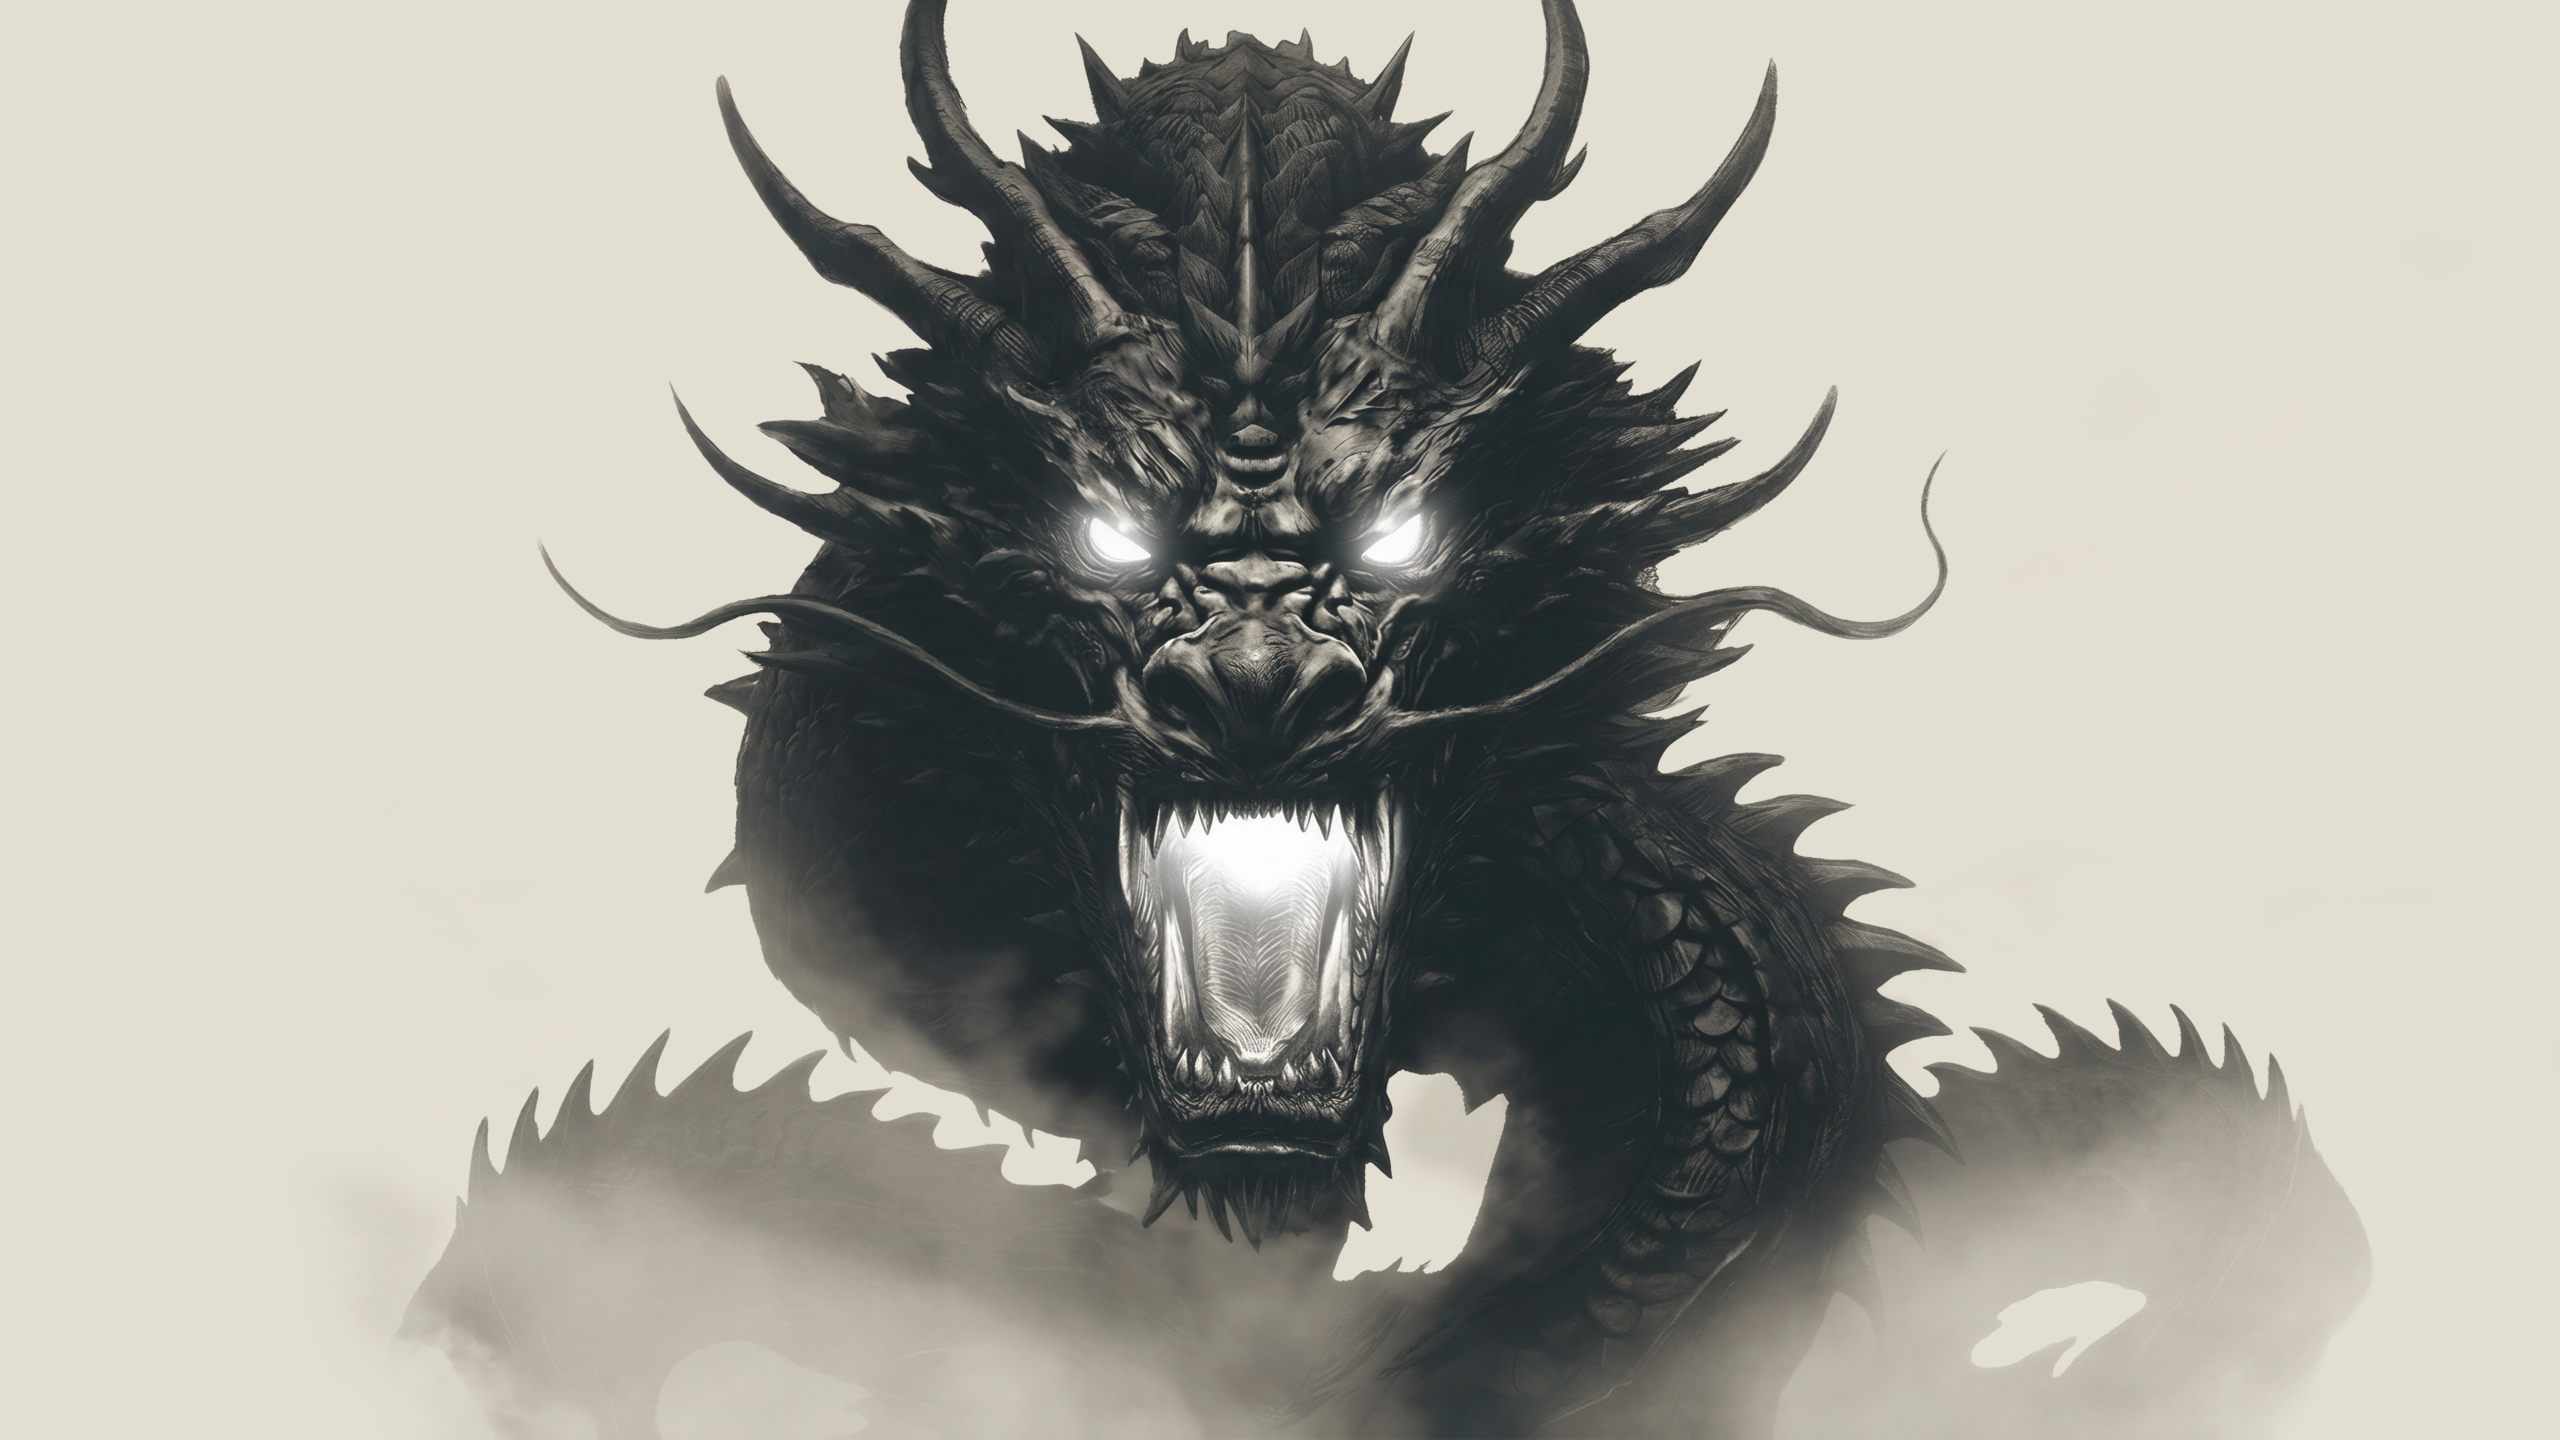
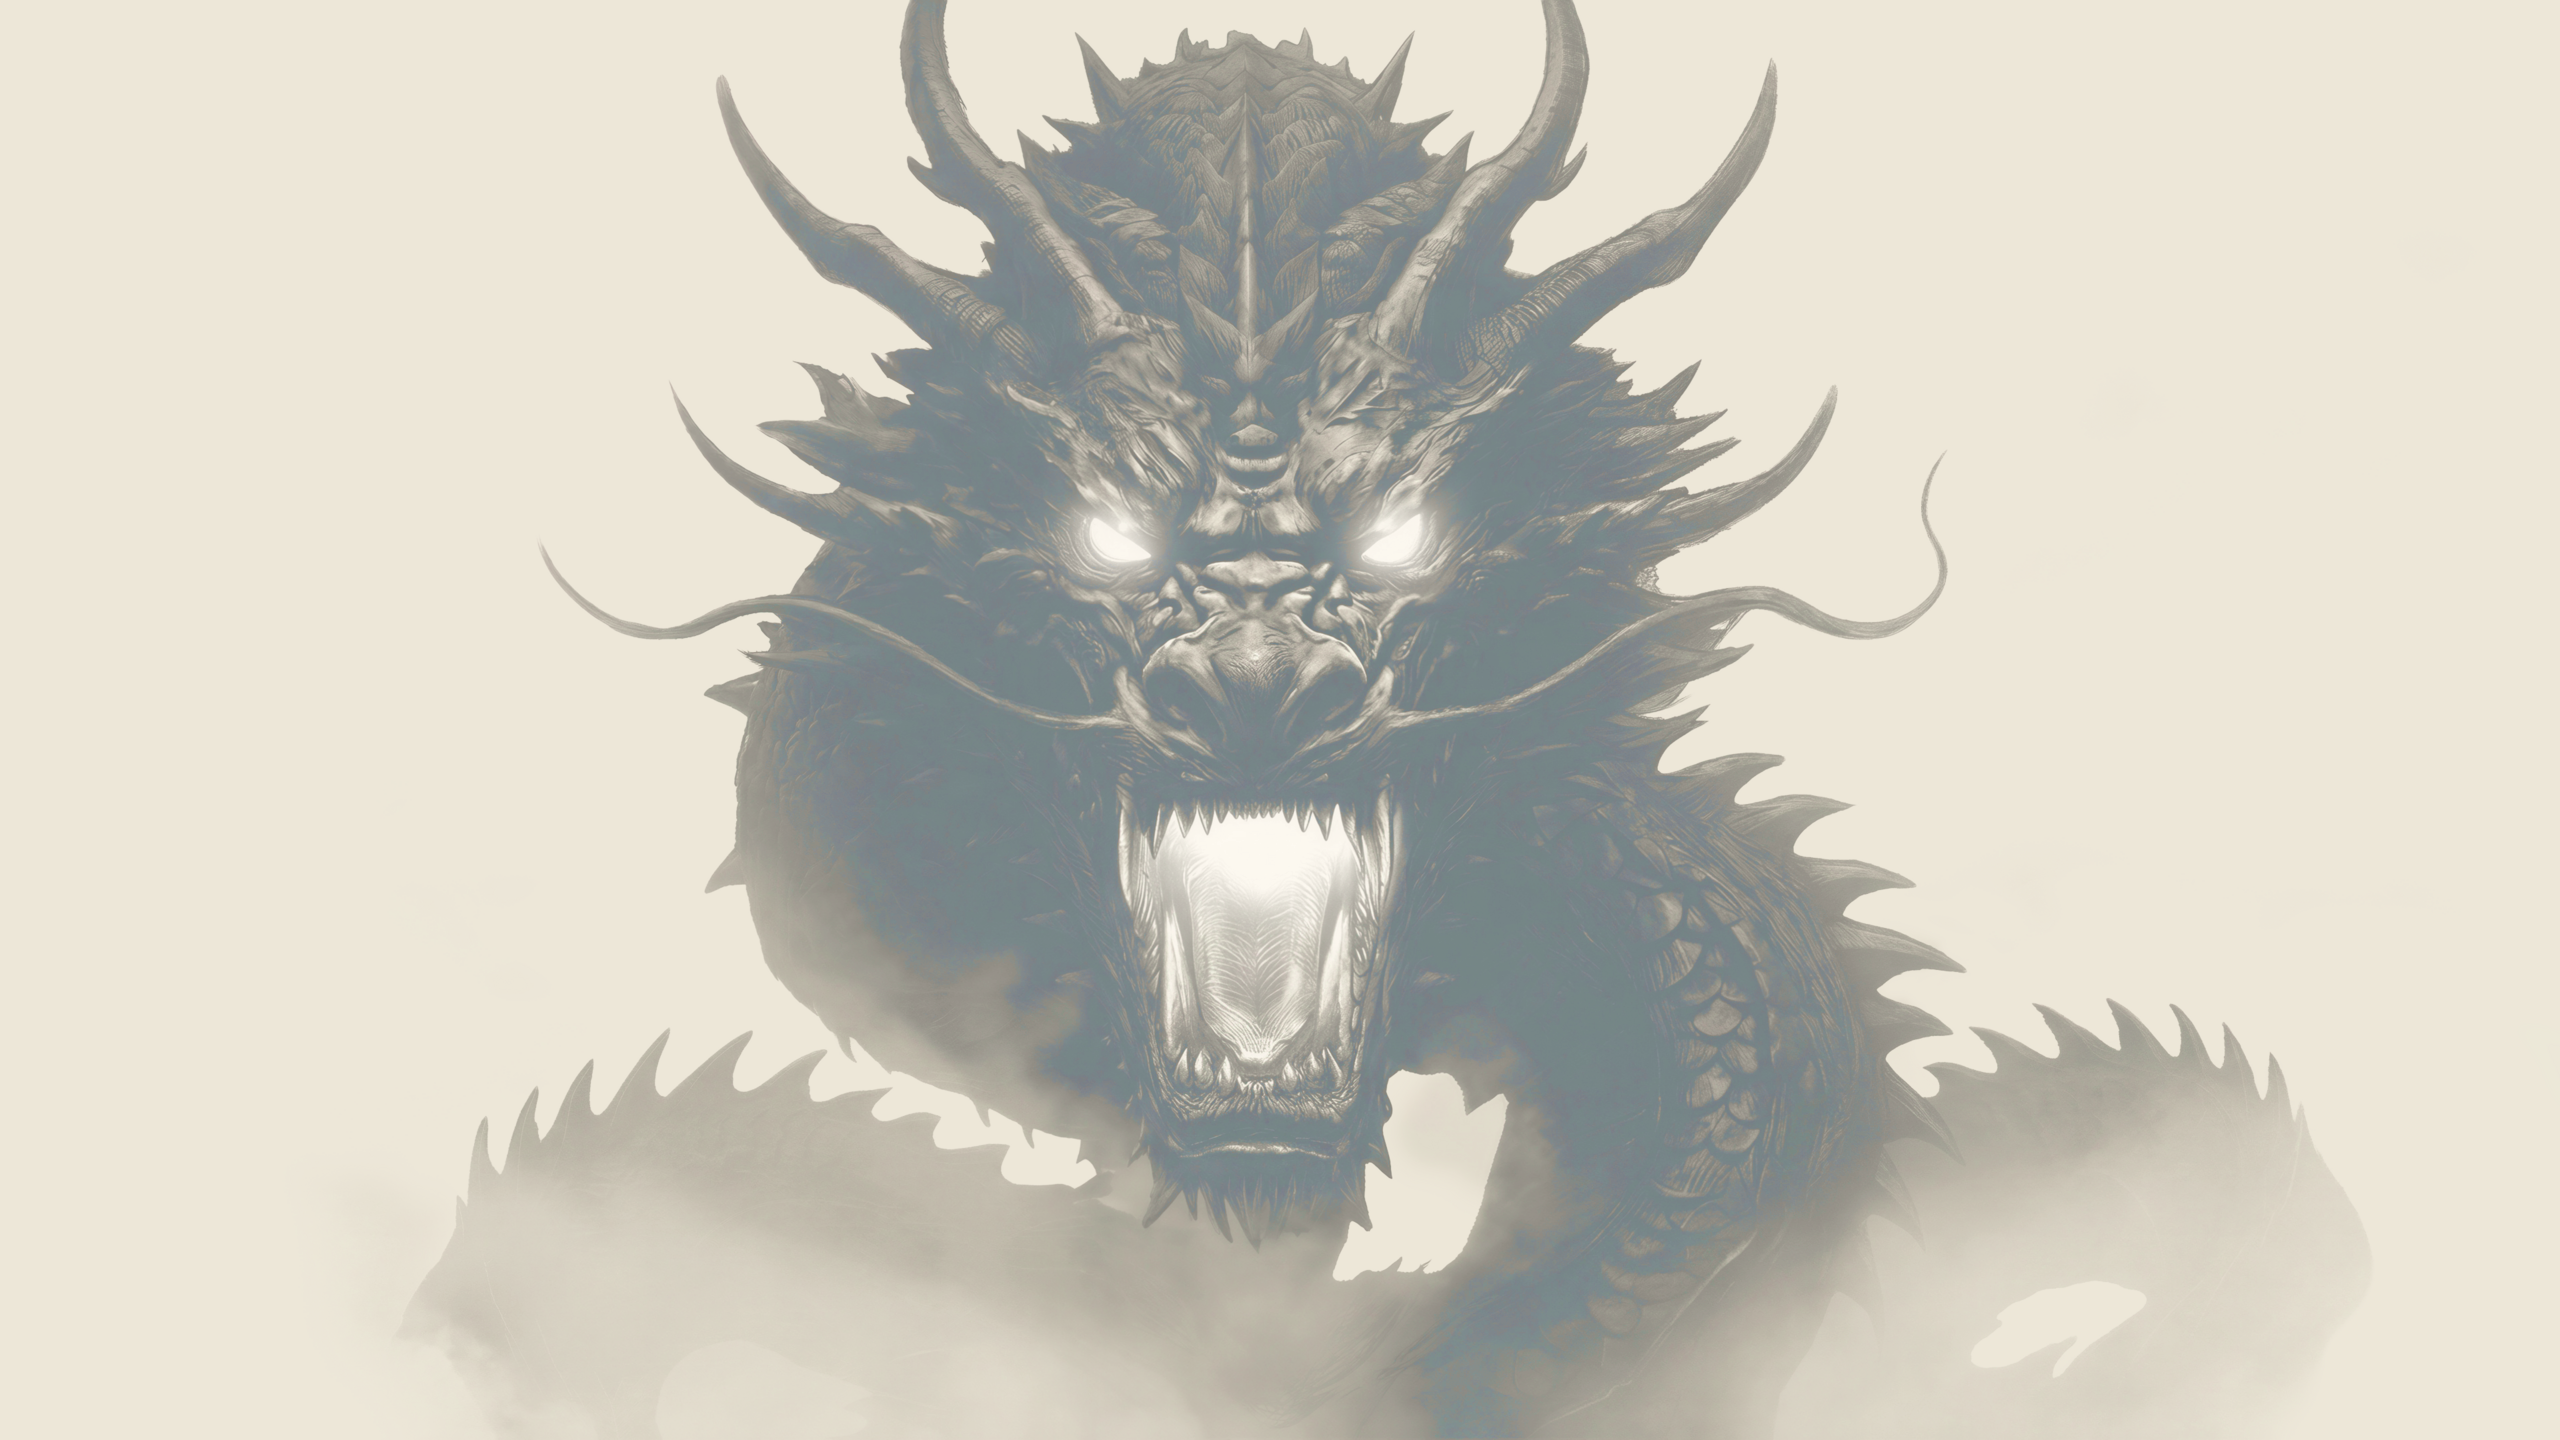
wallpapers: the Sumi pictures recoloured into the Sumi Day palette

diff --git a/README.md b/README.md
@@ -453,7 +453,7 @@ Add `--system` to install to `/usr/share/icons` instead, for every user and the
 login screen (asks for sudo); `--user` is the default.
 
 Wallpapers ship in [`backgrounds/`](backgrounds/), named `sumiday-<subject>`:
-the same five ink-wash dragons as Sumi: the roar, the dragon in cloud,
+the same five ink-wash dragons as Sumi, lifted into Sumi Day's paper tones: the roar, the dragon in cloud,
 a breath of smoke, a monk before the dragon and the descent, plus the
 anime portrait from the screenshot (`sumiday-anime.png`) in the palette's
 own tones. The roar (`sumiday-roar.png`) is the one in `assets/wallpaper.png`
